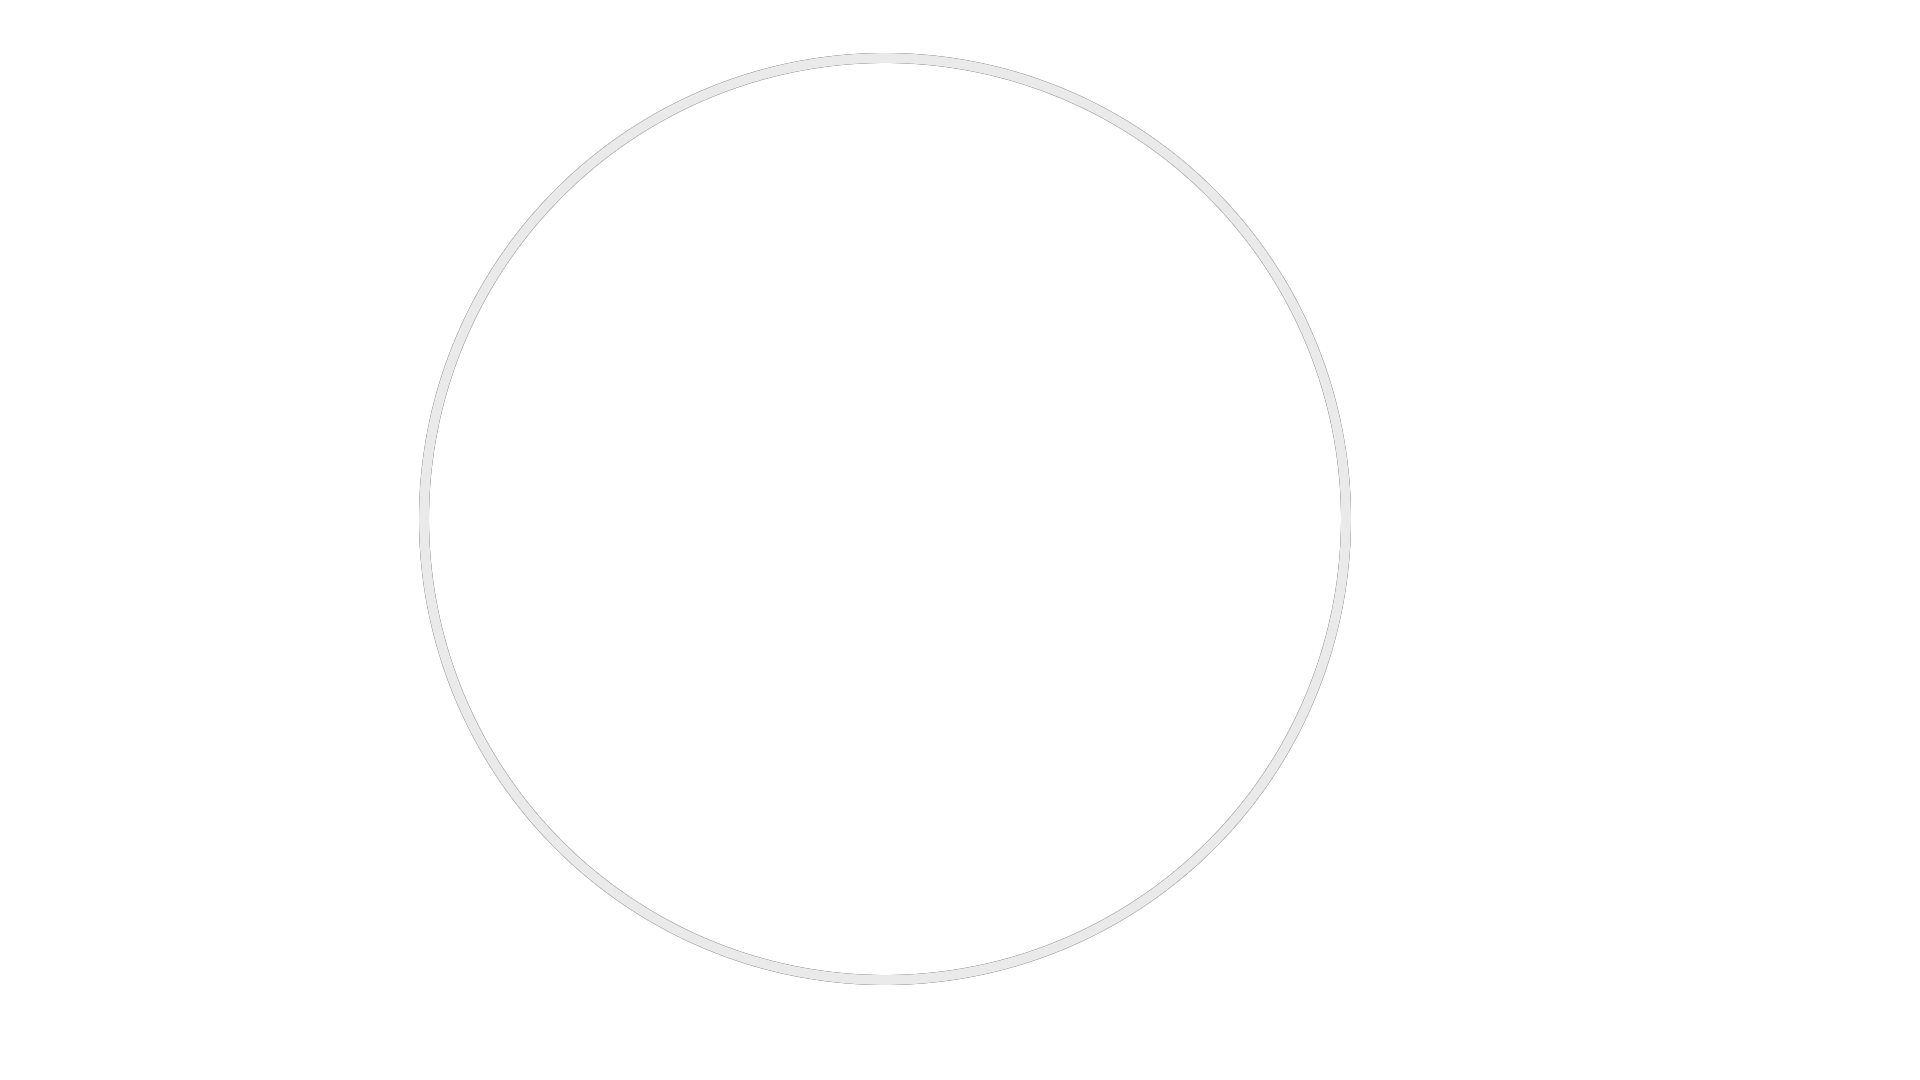
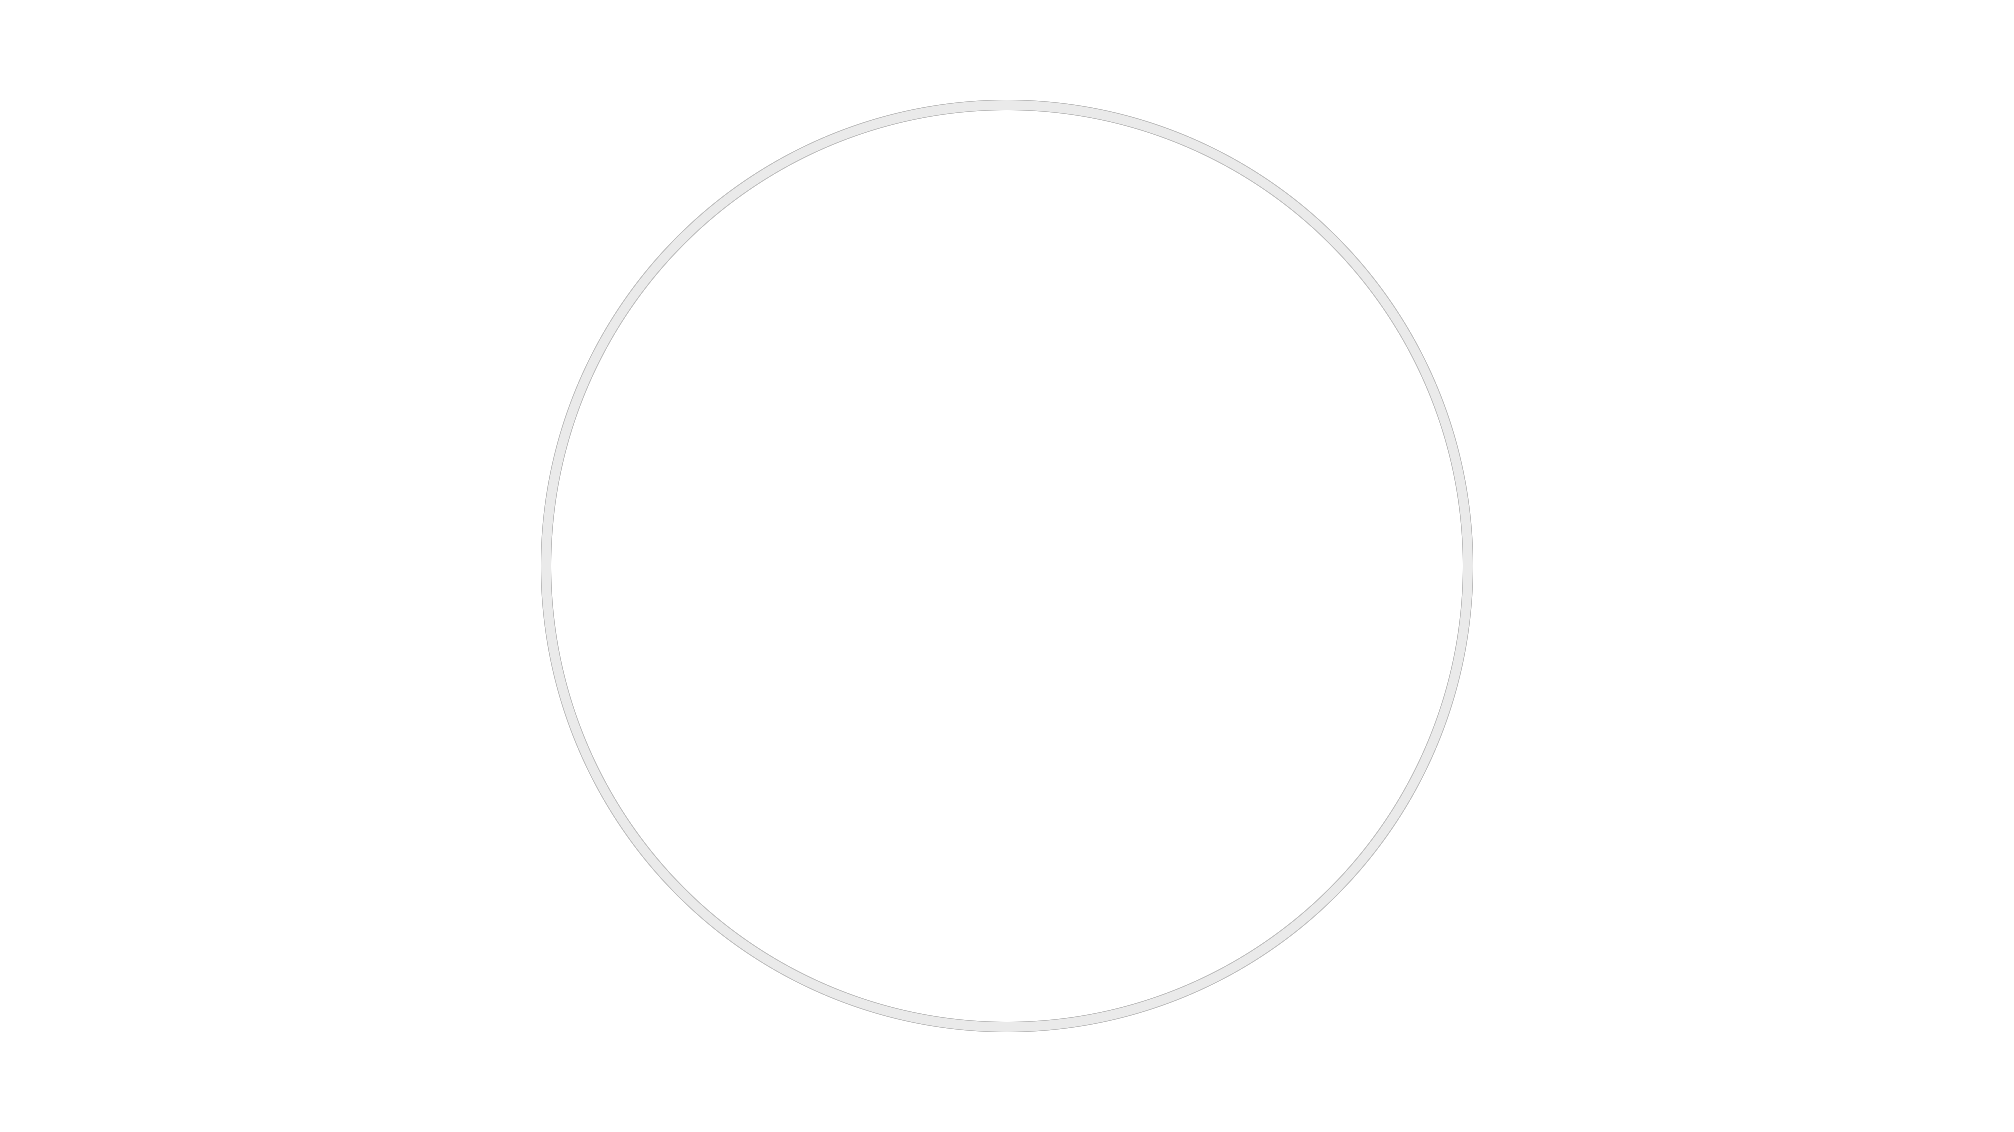
Adding Shout Power

diff --git a/Assets/Characters/Player/CrierScript.cs b/Assets/Characters/Player/CrierScript.cs
@@ -1,0 +1,32 @@
+using System.Collections;
+using System.Collections.Generic;
+using UnityEngine;
+
+public class CrierScript : MonoBehaviour {
+
+	private float StartPressingShout; //Force du paralax
+	private float ShoutPower; //Force du paralax
+
+	// Use this for initialization
+	void Start () {
+		
+	}
+	
+	// Update is called once per frame
+	void Update () {
+		if(Input.GetKey("space")){
+			if(StartPressingShout == 0){
+				StartPressingShout = Time.time;
+			}
+		}else{
+			if(StartPressingShout != 0){
+				ShoutPower = Time.time - StartPressingShout;
+				Debug.Log("shout: "+ShoutPower);
+				// Shout
+				// Spawn Shout at Player
+			}
+			StartPressingShout = 0;
+		}
+
+	}
+}

diff --git a/Assets/Environements/Bruit/BruitScript.cs b/Assets/Environements/Bruit/BruitScript.cs
@@ -16,9 +16,8 @@ public class BruitScript : MonoBehaviour {
 	
 	// Update is called once per frame
 	void Update () {
-		transform.Translate(Vector3.forward );
-		if(transform.localScale.x <= Puissance ){
-			transform.localScale += new Vector3(0.1F, 0.1F, 0);
+		if(transform.localScale.x <= Puissance/10 ){
+			transform.localScale += new Vector3(0.01F, 0.01F, 0);
 		}else{
 			Destroy(gameObject);
 		}
@@ -28,7 +27,7 @@ public class BruitScript : MonoBehaviour {
 
 	void OnTriggerEnter2D(Collider2D col) {
 		Debug.Log("ee");
-		//GetComponent<MeshRenderer>(MeshRenderer).enabled = false;
+		
 		col.GetComponent<SpriteRenderer>().enabled = true;
     }
 
